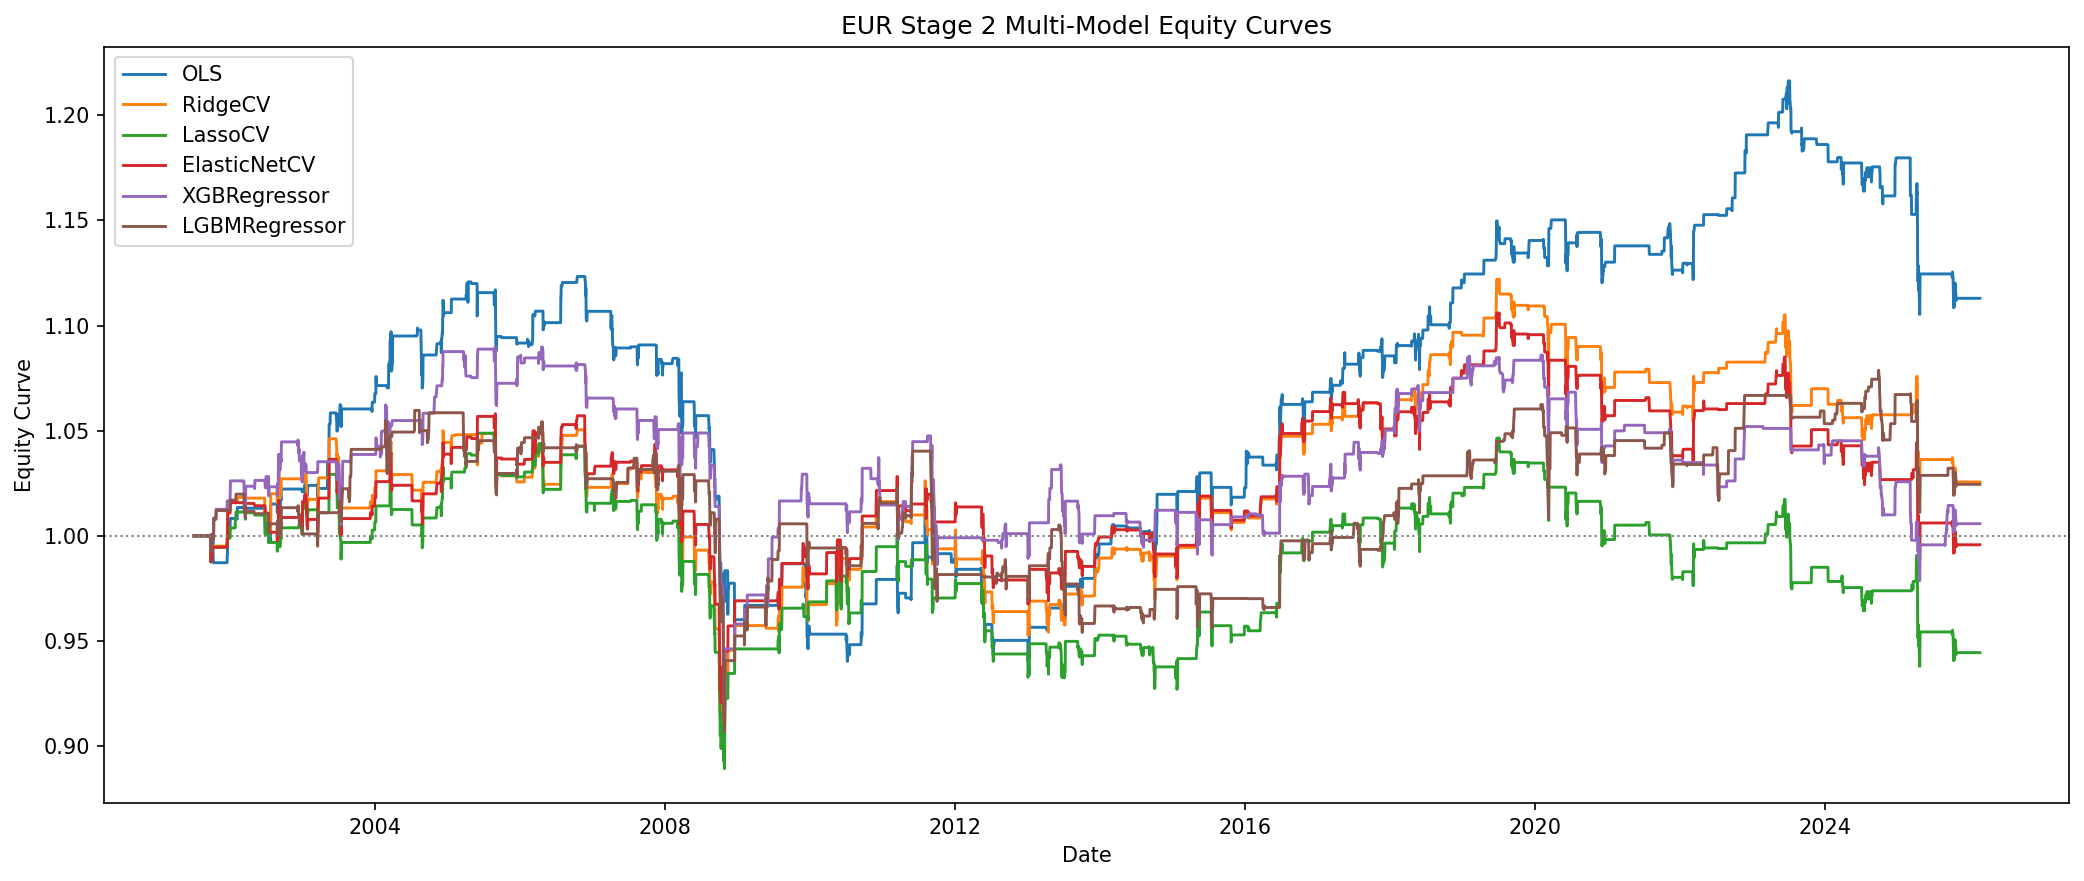
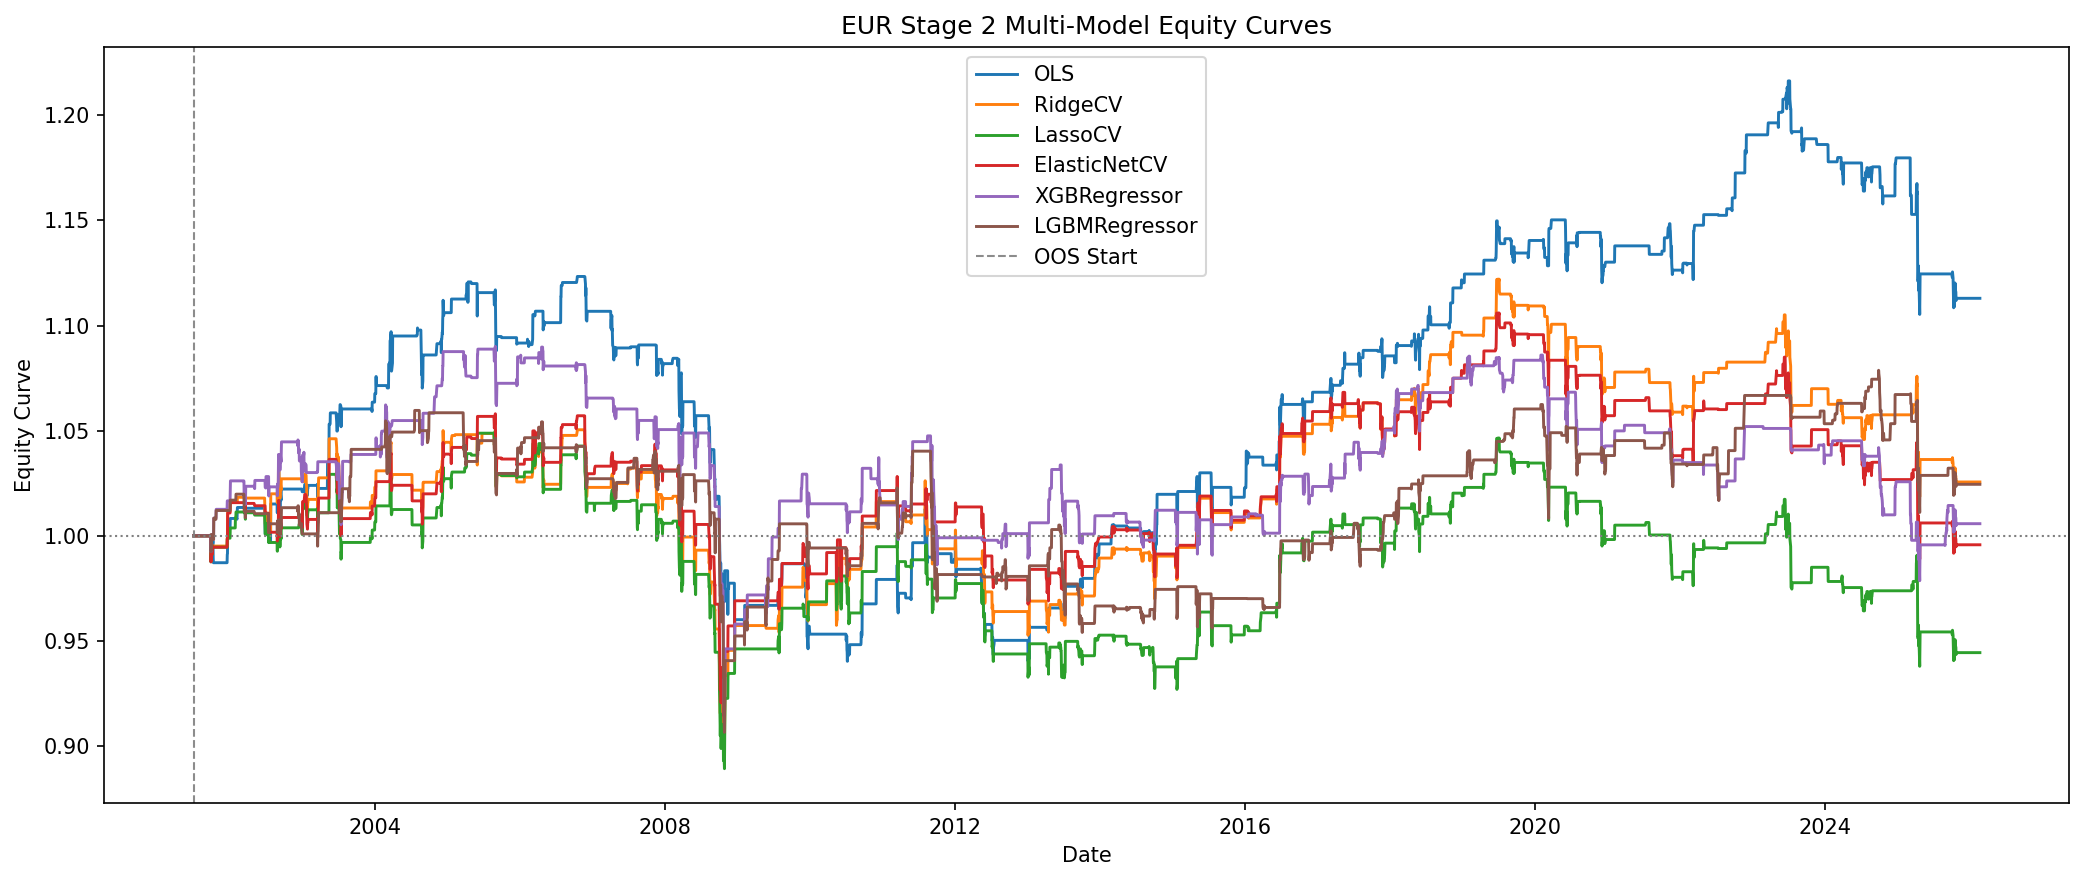
Added a vertical line on the charts to show when the model testing period begins

Changed region(s): [[0.0624, 0.0613, 0.1871, 0.2758], [0.4679, 0.0613, 0.5926, 0.3065]]

diff --git a/src/stage2_ml_performance_audit.py b/src/stage2_ml_performance_audit.py
@@ -773,11 +773,15 @@ def _plot_multi_model_equity_curves(
 ) -> None:
     """Save a multi-model equity-curve comparison plot."""
     fig, ax = plt.subplots(figsize=(14, 6))
+    oos_start: pd.Timestamp | None = None
 
     for model_name, audit_df in audit_map.items():
         plot_df = audit_df.loc[audit_df["Strategy_Equity_Curve"].notna()]
         if plot_df.empty:
             continue
+        model_start = plot_df.index.min()
+        if oos_start is None or model_start < oos_start:
+            oos_start = model_start
         ax.plot(
             plot_df.index,
             plot_df["Strategy_Equity_Curve"],
@@ -786,6 +790,15 @@ def _plot_multi_model_equity_curves(
         )
 
     ax.axhline(1.0, color="grey", linestyle=":", linewidth=1.0)
+    if oos_start is not None:
+        ax.axvline(
+            x=oos_start,
+            color="grey",
+            linestyle="--",
+            linewidth=1.0,
+            alpha=0.9,
+            label="OOS Start",
+        )
     ax.set_title(f"{currency.upper()} Stage 2 Multi-Model Equity Curves")
     ax.set_ylabel("Equity Curve")
     ax.set_xlabel("Date")
